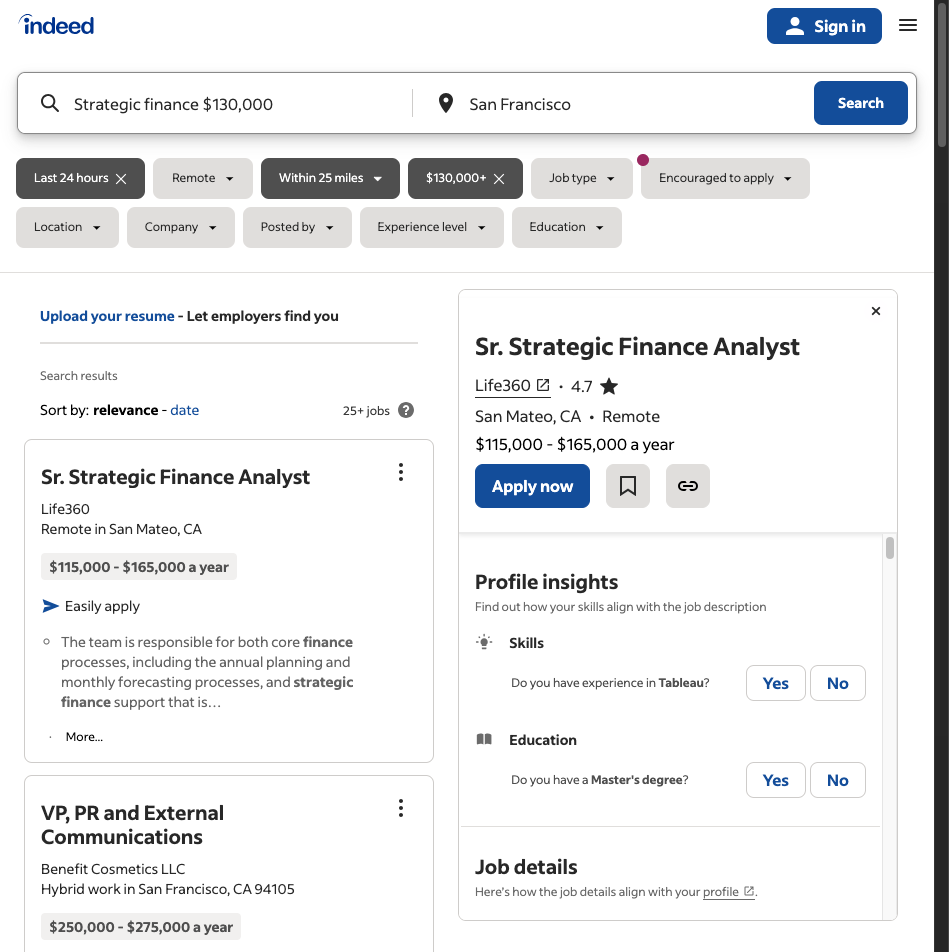
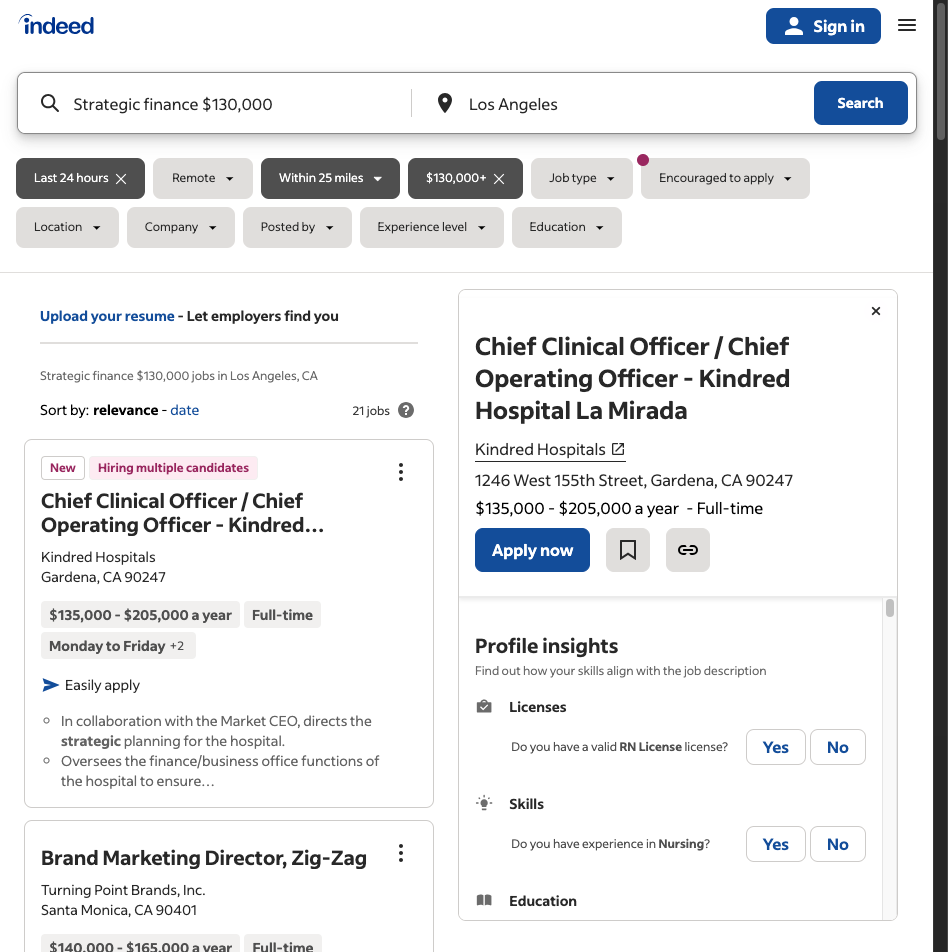
debugged refinement issues. Still no answer

diff --git a/search.py b/search.py
@@ -25,7 +25,8 @@ driver = configure_webdriver()
 # job_positions = ['finance analyst', 'financial analyst', 'strategic finance', 'finance associate']
 job_positions = ['Strategic finance']
 # job_location = '90066'
-job_locations = ['Los Angeles', 'New York City', 'San Francisco']
+# job_locations = ['Los Angeles', 'New York City', 'San Francisco']
+job_locations = ['Los Angeles']
 date_posted = 1
 pay = '$130,000'
 yearsExperience = '4'
@@ -74,19 +75,32 @@ def searchToJson():
 def addGoodJobs(partialPrompt):
     print('Adding only best job')
     prompt = f"""
-        Given the following base resume: {base_resume} 
-        And a list of job descriptions with indices: {partialPrompt} 
-        
+            Given the following details:
+            Base resume: {base_resume}
+            List of job descriptions with indices: {partialPrompt}
+            Years of experience threshold: {yearsExperience}
+            Disqualify terms: {disqualifyTerms}
+
+        Instructions:
         For each job description:
-        1. Check if the estimated years of experience exceed {yearsExperience}. If yes, DISQUALIFY.
-        2. Check if the job is not a good fit for the resume based on role similarity (key skills, responsibilities, and title overlap). If yes, DISQUALIFY.
-        3. Check if the job title or description contains any of these disqualify terms: {disqualifyTerms}. If yes, DISQUALIFY.
-        4. Check if the job is not strictly a finance role (FP&A, finance analyst/strategy). If yes, DISQUALIFY.
-        5. Check if the company is not tech-focused. If yes, DISQUALIFY.
 
-        If a job is disqualified, skip it. If multiple jobs pass, return the index of the most relevant job based on role similarity. If no jobs pass, return an empty list.
+            If the estimated years of experience exceed {yearsExperience}, mark the job as DISQUALIFIED.
+            If the job is not a good fit for the resume, mark the job as DISQUALIFIED.
+            If the job title or description contains any of the disqualify terms, mark the job as DISQUALIFIED.
+            If the job is not strictly a finance role (FP&A, finance analyst/strategy), mark the job as DISQUALIFIED.
+            If the company is not tech-focused, mark the job as DISQUALIFIED.
 
-        Output format: Return only a single integer in a Python list (e.g., [13]). Do not include any explanations or additional text.
+        Final Output:
+
+            If a job is DISQUALIFIED for ANY reason, exclude it from consideration.
+            From the remaining jobs, choose the most relevant job based on role similarity (key skills, responsibilities, and title overlap).
+            If no jobs are suitable, return an empty list.
+
+        Output format:
+
+            Return only the index of the most relevant job in a Python list (e.g., [13]).
+            If no jobs qualify, return an empty list (e.g., []).
+            Do not include any explanations, additional text, or formatting beyond the specified output format.
     """
     client = OpenAI(api_key=api_key)
     response = client.chat.completions.create(
